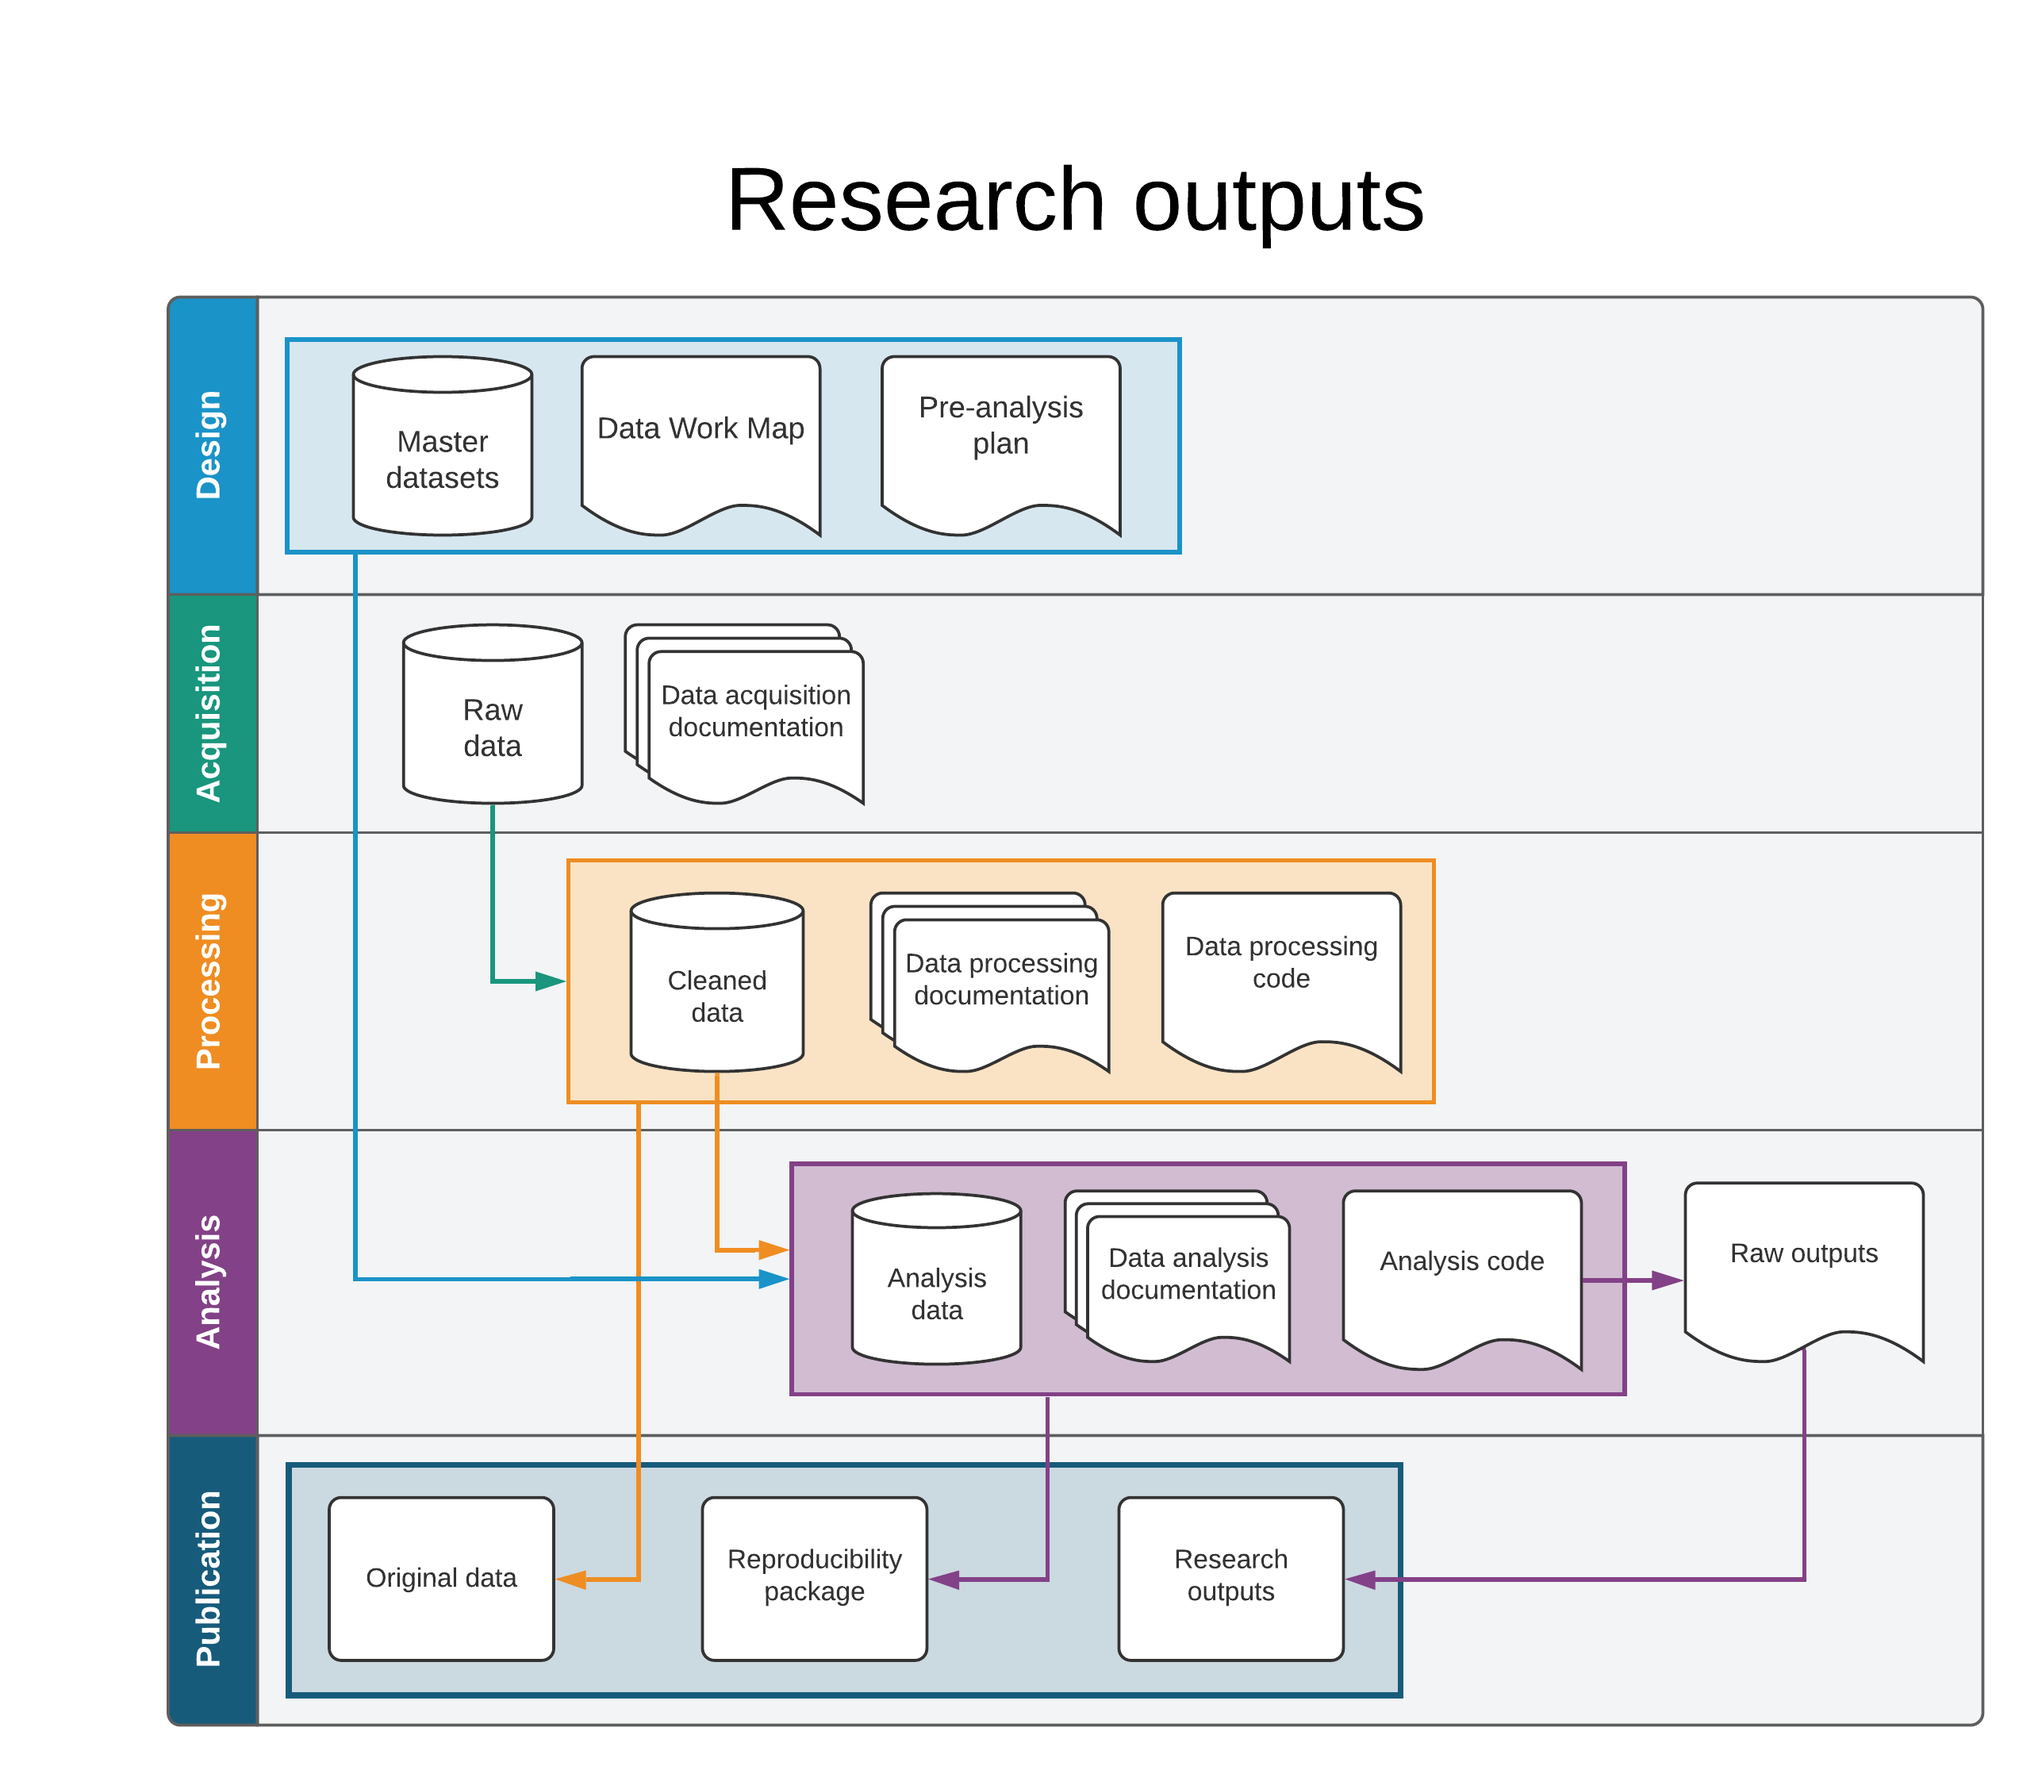
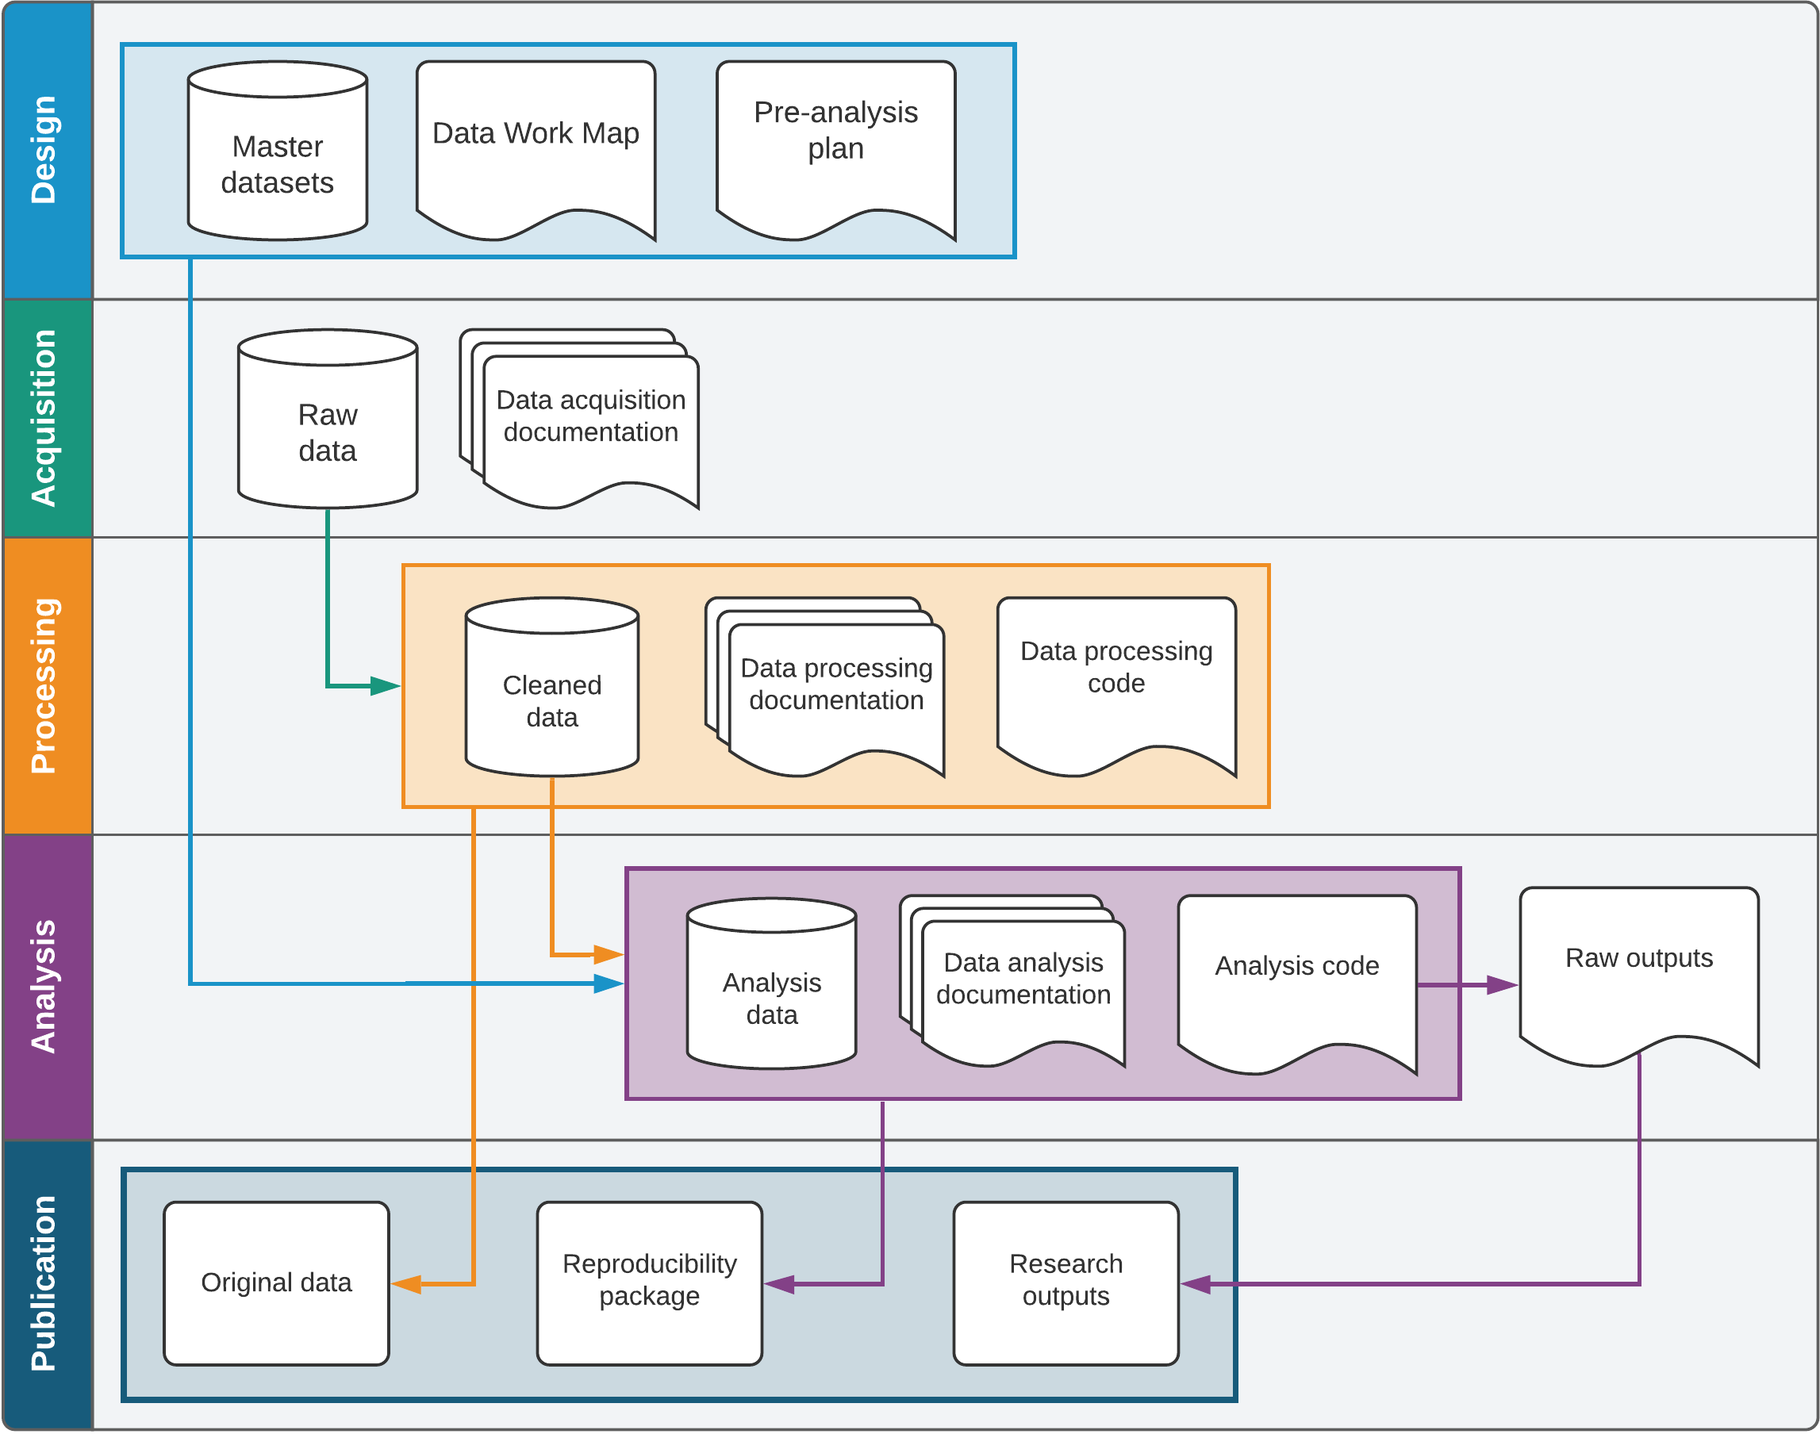
#461 and #461

diff --git a/chapters/5-processing.tex b/chapters/5-processing.tex
@@ -65,15 +65,6 @@ and the \textbf{unit of observation}\sidenote{\textbf{Unit of observation:}
 This section will also present what we call a \textit{tidy} data format,
 which is, in our experience, the ideal format to handle tabular data.
 
-\begin{fullwidth}
-	\begin{figure}
-		\centering
-		\includegraphics[width=1.6\linewidth]{diagrams/Cleaning}
-		\caption{}
-		\label{fig:intro}
-	\end{figure}
-\end{fullwidth}
-
 %------------------------------------------------------------------------------
 \subsection{Unique identifiers}
 
@@ -829,6 +820,7 @@ You will probably need these files during analysis,
 and they should be published along with the data,
 so other researchers may use them for their analysis as well.
 
+\section{Looking ahead}
 Once you have a cleaned,
 de-identified dataset with one or several data tables,
 and the documentation to support it,
@@ -848,5 +840,14 @@ In chapter 6, you will see what are the last few steps needed to finally run the
 regressions originally specified in your analysis plan
 and find an answer to your research question --
 or perhaps to find out you now have even more questions.
+
+\begin{fullwidth}
+	\begin{figure}
+		\centering
+		\includegraphics[width=1.6\linewidth]{diagrams/Cleaning}
+		\caption{Data processing workflow}
+		\label{fig:cleaning}
+	\end{figure}
+\end{fullwidth}
 
 %--------------------------------------------------------------

diff --git a/chapters/6-analysis.tex b/chapters/6-analysis.tex
@@ -92,16 +92,6 @@ Having three separate datasets for each of these three pieces of analysis
 will result in cleaner, more efficient, and less error-prone analytical code than if
 you started from a single analysis dataset and repeatedly transformed it.
 
-
-\begin{fullwidth}
-	\begin{figure}
-		\centering
-		\includegraphics[width=1.6\linewidth]{diagrams/Analysis}
-		\caption{}
-		\label{fig:intro}
-	\end{figure}
-\end{fullwidth}
-
 \subsection{Fitting construction into the data workflow}
 
 % Why construction is separate from data cleaning
@@ -750,5 +740,15 @@ This book, for example, was written in {\LaTeX} and managed on GitHub.\sidenote{
 Finally, some journals make {\LaTeX} templates available,
 so papers can be more easily be formatted into their specific layout.
 
+\section{Looking ahead}
+
+\begin{fullwidth}
+	\begin{figure}
+		\centering
+		\includegraphics[width=1.6\linewidth]{diagrams/Analysis}
+		\caption{Data analysis workflow}
+		\label{fig:analysis}
+	\end{figure}
+\end{fullwidth}
 
 %------------------------------------------------

diff --git a/chapters/7-publication.tex b/chapters/7-publication.tex
@@ -71,15 +71,6 @@ with out-of-date results, or of completed work being lost or redundant.
 
 \subsection{Preparing formal outputs as {\LaTeX} documents}
 
-\begin{fullwidth}
-	\begin{figure}
-		\centering
-		\includegraphics[width=1.6\linewidth]{diagrams/Publication}
-		\caption{}
-		\label{fig:intro}
-	\end{figure}
-\end{fullwidth}
-
 % what exactly is a dynamic document
 As we discussed in Chapter 6, the most widely used software
 for dynamically managing formal manuscripts and policy outputs is {\LaTeX}.
@@ -640,3 +631,12 @@ We recommend against using file sharing services such as
 Dropbox or Google Drive for this purpose,
 as their access is more restrictive,
 and organizations limit access to platforms other than the one officially adopted.
+
+\begin{fullwidth}
+	\begin{figure}
+		\centering
+		\includegraphics[width=1.5\linewidth]{diagrams/Publication}
+		\caption{Data publication workflow}
+		\label{fig:publication}
+	\end{figure}
+\end{fullwidth}

diff --git a/auxiliary/conclusion.tex b/auxiliary/conclusion.tex
@@ -47,8 +47,8 @@ You can share your comments and suggestion on this book through \url{https://wor
 \begin{fullwidth}
 	\begin{figure}
 		\centering
-		\includegraphics[width=1.6\linewidth]{diagrams/Conclusion}
-		\caption{}
-		\label{fig:intro}
+		\includegraphics[width=1.5\linewidth]{diagrams/Conclusion}
+		\caption{Research data works outputs}
+		\label{fig:conclusion}
 	\end{figure}
 \end{fullwidth}
